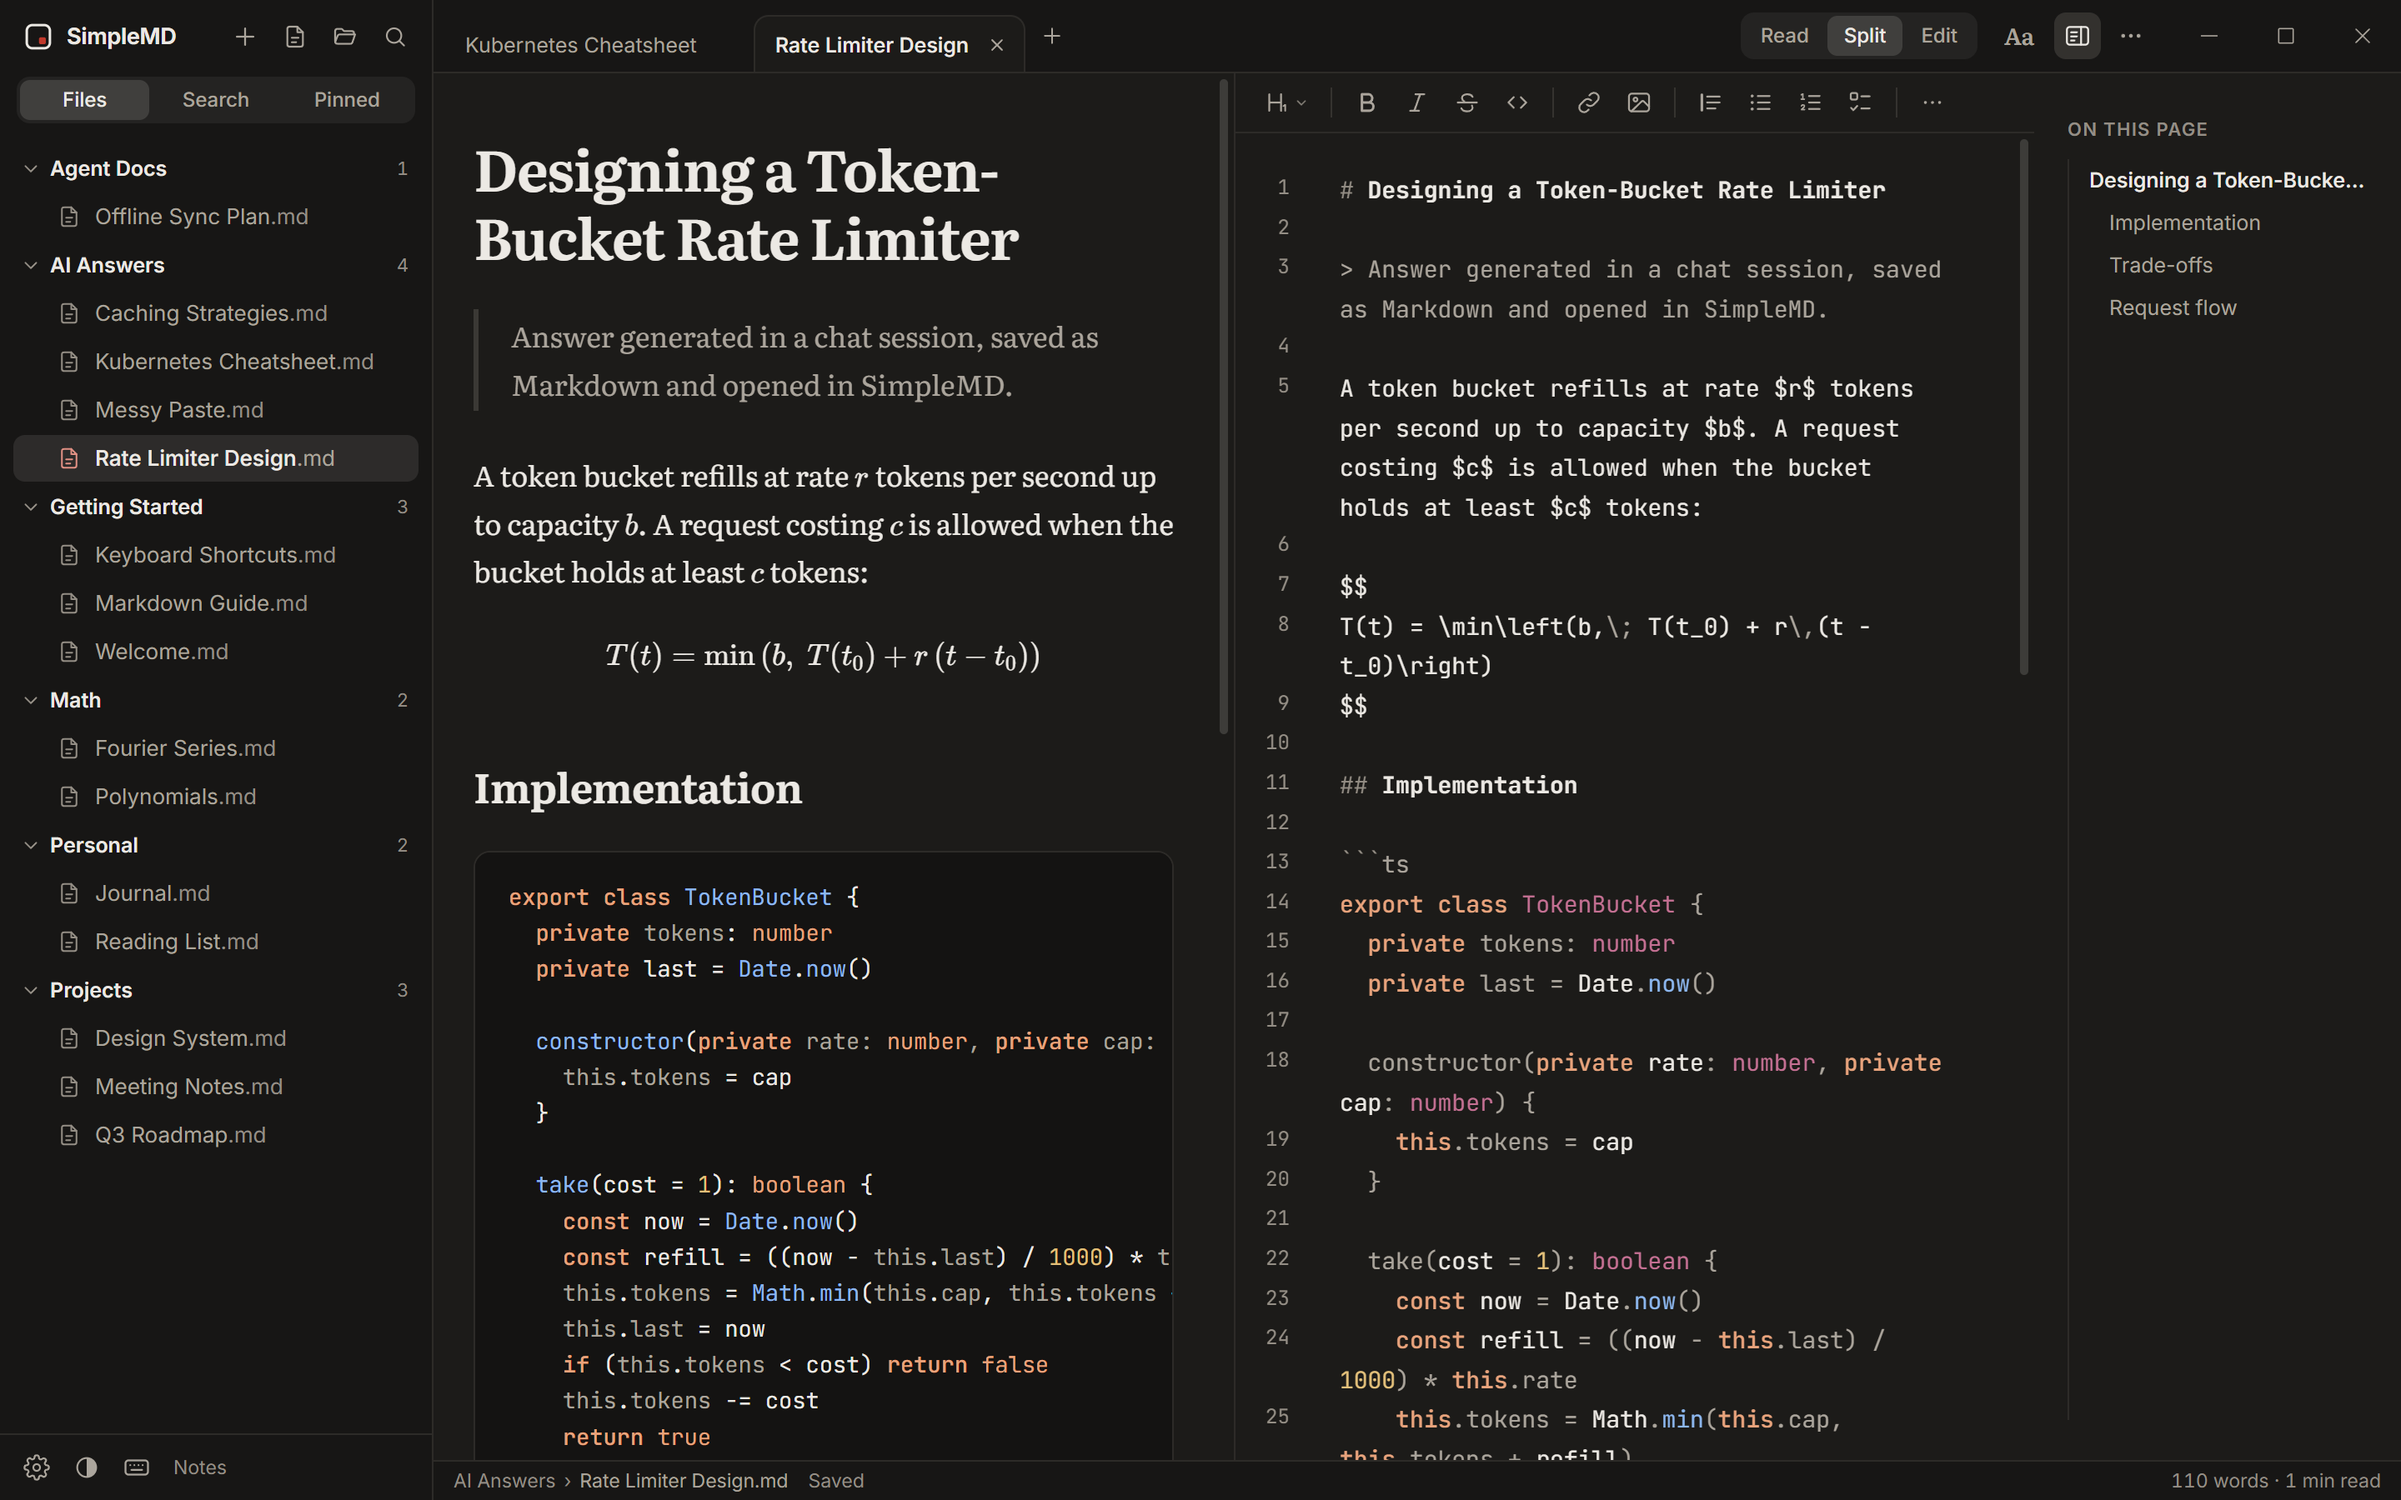
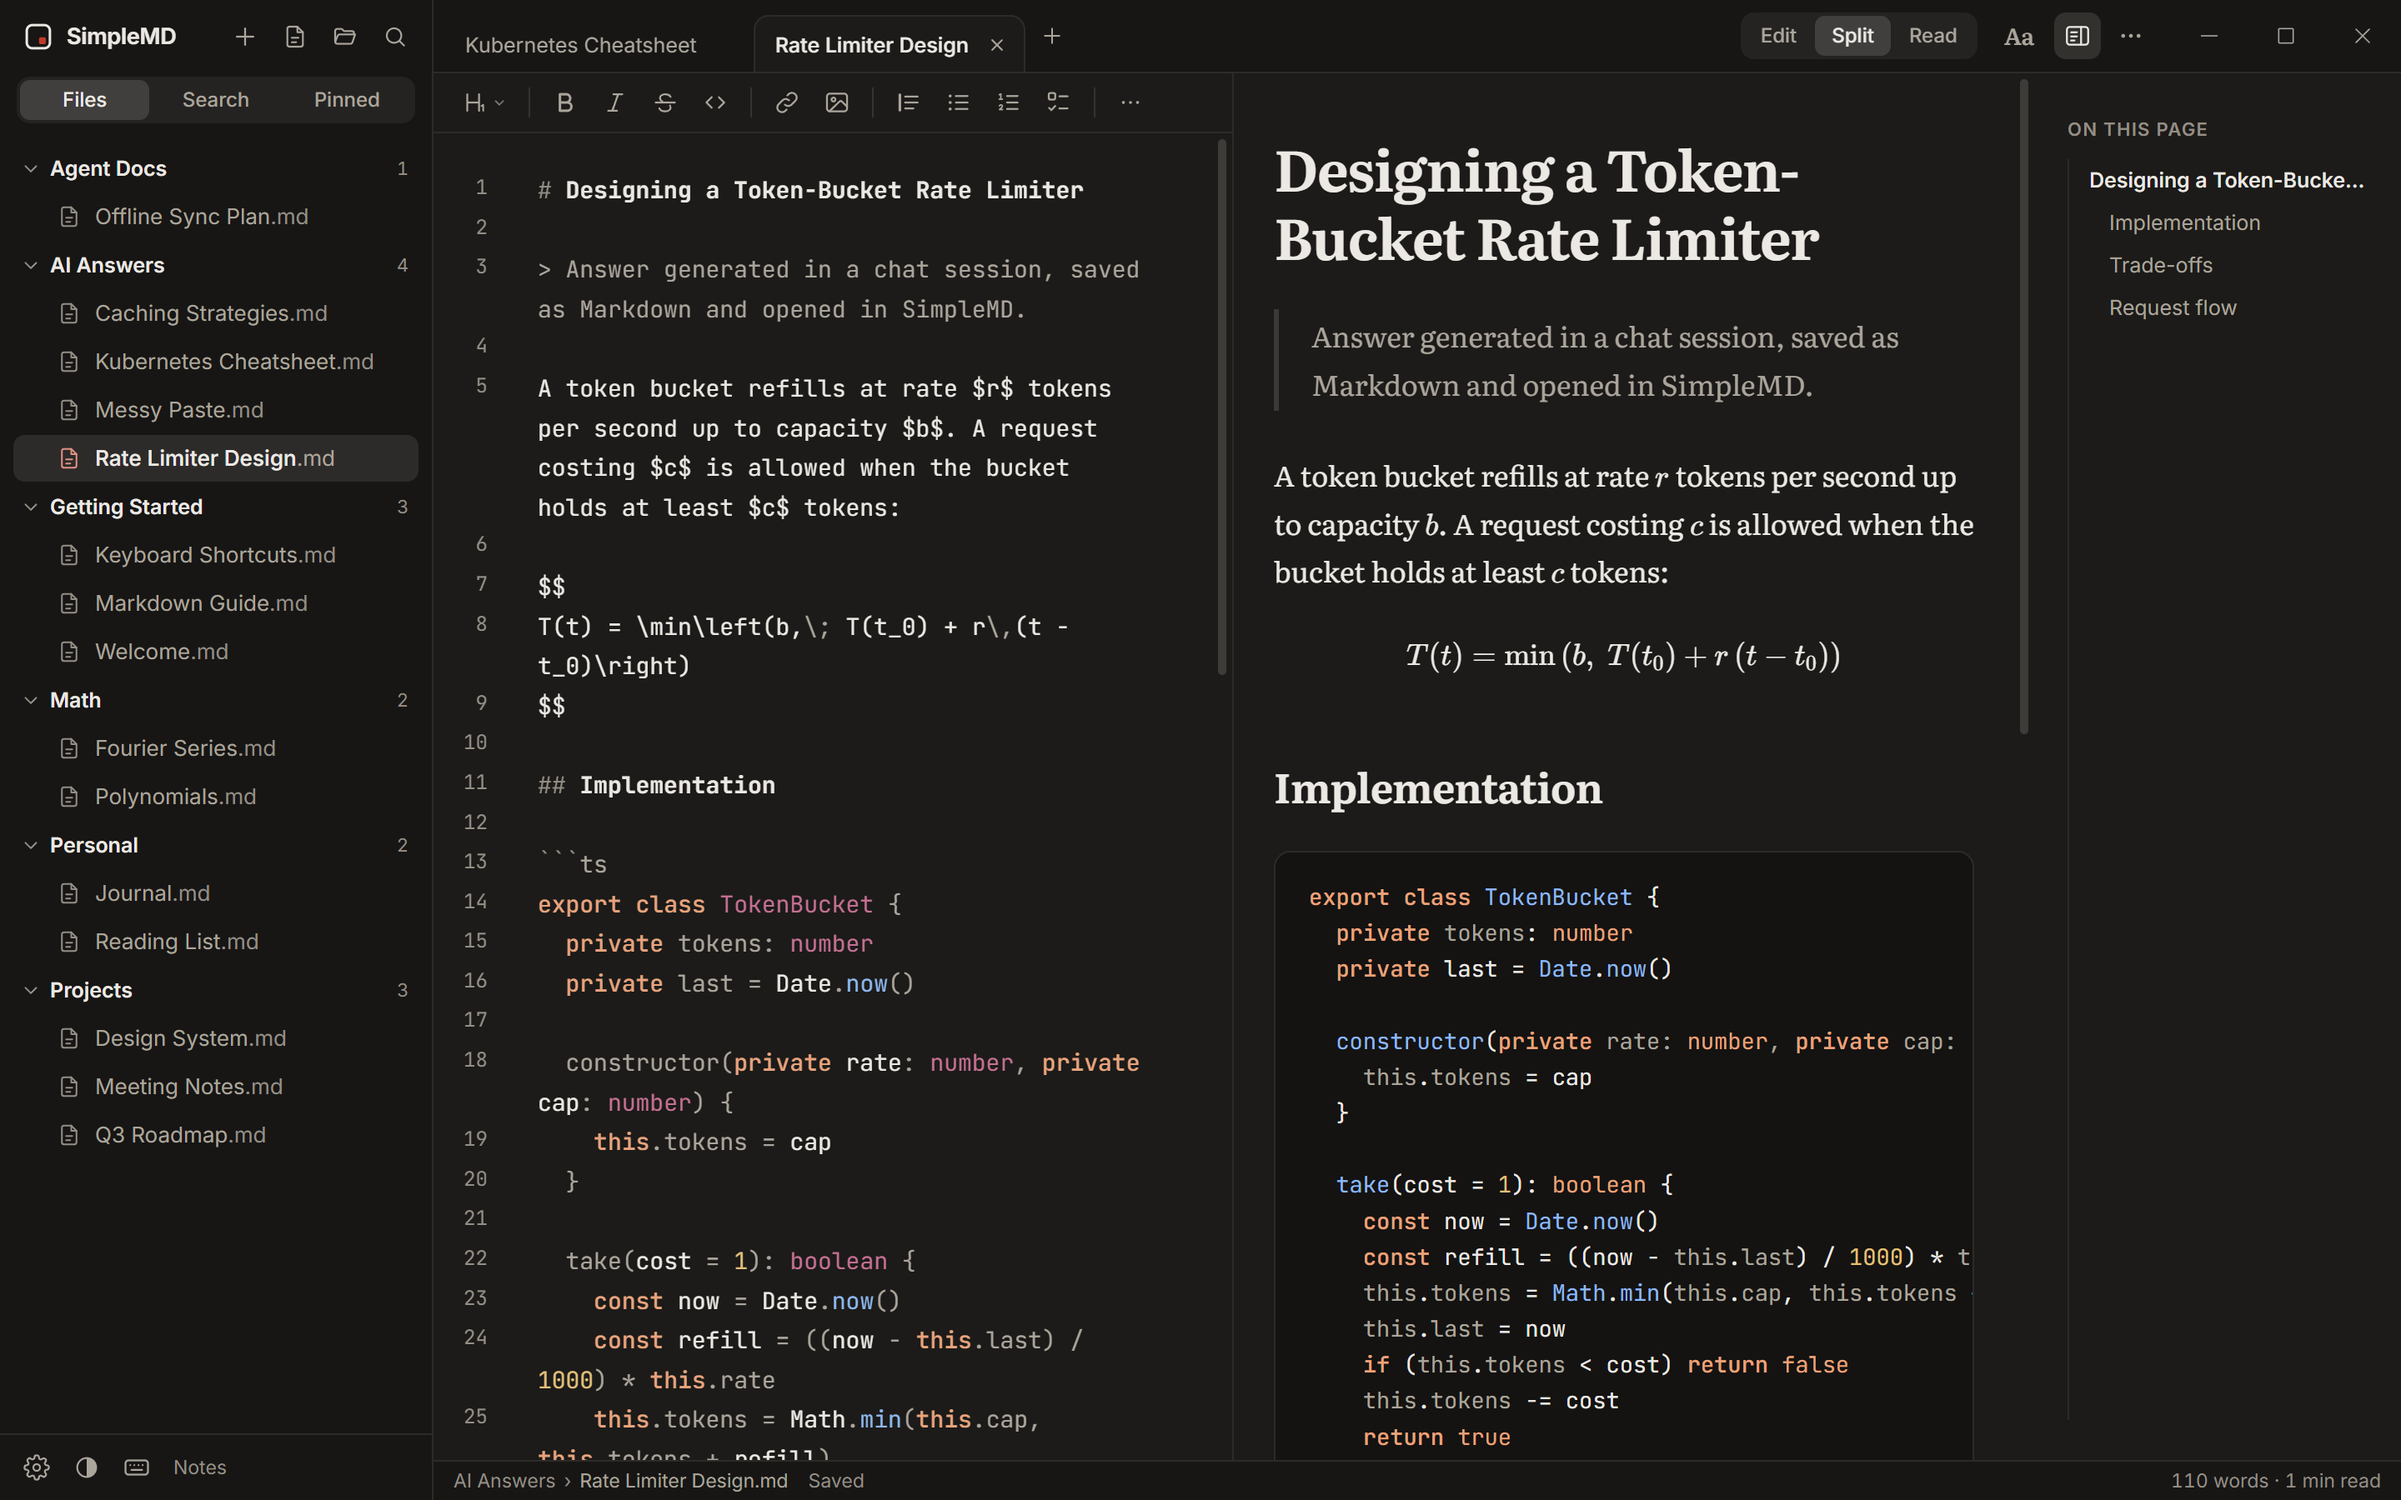
feat: editor left, preview right in Split view; switch reads Edit / Split / Read
The panes go back to source on the left and preview on the right, and the view switch
is reordered to match them. Shortcuts keep their numbers (Mod+1 Read, Mod+2 Split,
Mod+3 Edit). The website demo, screenshots, README and changelog follow.

diff --git a/site/index.html b/site/index.html
@@ -1554,7 +1554,7 @@
       display: flex;
       height: 100%;
       background: var(--code-bg);
-      border-left: 1px solid var(--border-hairline);
+      border-right: 1px solid var(--border-hairline);
       overflow: hidden;
       width: 50%;
       opacity: 1;
@@ -1602,9 +1602,7 @@
       outline-offset: -2px;
     }
 
-    /* Preview first, editor second: the same order as the app's Split view. */
     .demo-preview-pane {
-      order: -1;
       height: 100%;
       overflow-y: auto;
       padding: 32px 40px;
@@ -1642,7 +1640,7 @@
       width: 50%;
       opacity: 1;
       pointer-events: auto;
-      border-left: 1px solid var(--border-hairline);
+      border-right: 1px solid var(--border-hairline);
     }
     .demo-work-area.mode-split .demo-preview-pane {
       width: 50%;
@@ -2953,8 +2951,8 @@
       .demo-work-area.mode-split .demo-editor-pane {
         width: 100% !important;
         height: 260px;
-        border-left: none;
-        border-top: 1px solid var(--border-hairline);
+        border-right: none;
+        border-bottom: 1px solid var(--border-hairline);
       }
       .demo-work-area.mode-split .demo-preview-pane {
         width: 100% !important;
@@ -3589,6 +3587,10 @@ graph LR
           <!-- Segmented Control with aria-controls -->
           <div class="segmented-control" role="tablist" aria-label="Editor View Modes">
             <div class="segmented-indicator" id="segmented-indicator"></div>
+            <button class="segment-btn" id="btn-mode-edit" role="tab" aria-selected="false" aria-controls="demo-work-area" data-mode="edit">
+              <svg width="13" height="13" viewBox="0 0 24 24" fill="none" stroke="currentColor" stroke-width="2"><polyline points="16 18 22 12 16 6"/><polyline points="8 6 2 12 8 18"/></svg>
+              <span>Edit</span>
+            </button>
             <button class="segment-btn active" id="btn-mode-split" role="tab" aria-selected="true" aria-controls="demo-work-area" data-mode="split">
               <svg width="13" height="13" viewBox="0 0 24 24" fill="none" stroke="currentColor" stroke-width="2"><rect x="3" y="3" width="18" height="18" rx="2"/><line x1="12" y1="3" x2="12" y2="21"/></svg>
               <span>Split</span>
@@ -3596,10 +3598,6 @@ graph LR
             <button class="segment-btn" id="btn-mode-read" role="tab" aria-selected="false" aria-controls="demo-work-area" data-mode="read">
               <svg width="13" height="13" viewBox="0 0 24 24" fill="none" stroke="currentColor" stroke-width="2"><path d="M2 3h6a4 4 0 0 1 4 4v14a3 3 0 0 0-3-3H2z"/><path d="M22 3h-6a4 4 0 0 0-4 4v14a3 3 0 0 1 3-3h7z"/></svg>
               <span>Read</span>
-            </button>
-            <button class="segment-btn" id="btn-mode-edit" role="tab" aria-selected="false" aria-controls="demo-work-area" data-mode="edit">
-              <svg width="13" height="13" viewBox="0 0 24 24" fill="none" stroke="currentColor" stroke-width="2"><polyline points="16 18 22 12 16 6"/><polyline points="8 6 2 12 8 18"/></svg>
-              <span>Edit</span>
             </button>
           </div>
         </div>
@@ -3620,7 +3618,7 @@ graph LR
           <!-- Work Area with role="tabpanel" and height locked to 520px -->
           <div class="demo-work-area mode-split" id="demo-work-area" role="tabpanel" aria-labelledby="btn-mode-split">
             
-            <!-- Code Editor + Line Numbers (shown right of the preview) -->
+            <!-- Left Pane: Code Editor + Line Numbers -->
             <div class="demo-editor-pane" id="demo-editor-pane">
               <div class="line-numbers-gutter" id="line-numbers-gutter" aria-hidden="true">1<br>2<br>3<br>4<br>5<br>6<br>7<br>8<br>9<br>10<br>11<br>12<br>13<br>14<br>15<br>16</div>
               <textarea 
@@ -3631,7 +3629,7 @@ graph LR
                 placeholder="Type Markdown with $math$ and ```mermaid diagrams..."></textarea>
             </div>
 
-            <!-- Live Rendered Output (shown first, on the left) -->
+            <!-- Right Pane: Live Rendered Output -->
             <div class="demo-preview-pane" id="demo-preview-pane">
               <div class="demo-preview-content" id="demo-preview-content">
                 <!-- Injected via Vanilla JS Engine -->
@@ -3696,7 +3694,7 @@ graph LR
             <li>
               <button type="button" class="tour-step" role="tab" id="tour-tab-split" aria-controls="tour-stage" aria-selected="false" tabindex="-1" data-shot="split">
                 <span class="tour-step-title">Split view</span>
-                <span class="tour-step-body"><span>Fix what the AI got wrong on the right and watch the preview beside it follow as you type. Ctrl+S saves.</span></span>
+                <span class="tour-step-body"><span>Fix what the AI got wrong on the left and watch the preview follow as you type. Ctrl+S saves.</span></span>
                 <span class="tour-step-track" aria-hidden="true"><span class="tour-step-fill"></span></span>
               </button>
             </li>
@@ -3724,7 +3722,7 @@ graph LR
               <img class="tour-shot" data-shot="diagrams" data-src="screenshots/diagrams-dark.png" width="2880" height="1800" decoding="async"
                    alt="A comparison table with inline math above a rendered Mermaid flowchart and a task list.">
               <img class="tour-shot" data-shot="split" data-src="screenshots/split-dark.png" width="2880" height="1800" decoding="async"
-                   alt="Split view: the rendered preview on the left, the Markdown source in the editor on the right.">
+                   alt="Split view: Markdown source in the editor on the left, the rendered preview on the right.">
               <img class="tour-shot" data-shot="search" data-src="screenshots/search-dark.png" width="2880" height="1800" decoding="async"
                    alt="Workspace search for the word token, listing every match by file and line.">
               <img class="tour-shot" data-shot="reading" data-src="screenshots/reading-dark.png" width="2880" height="1800" decoding="async"

diff --git a/tests/e2e/app.spec.ts b/tests/e2e/app.spec.ts
@@ -303,7 +303,7 @@ test('split view: both panes move in the same frame under the mouse wheel, eithe
   expect(fromEditor.stalled).toBe(0)
 })
 
-test('split view shows the reader on the left and the editor on the right, like the switch', async () => {
+test('split view shows the editor on the left and the reader on the right, like the switch', async () => {
   run = await launch({ notes: await makeNotes(NOTES) })
   await openFile('Answer.md')
   await run.page.keyboard.press('Control+2')
@@ -311,9 +311,10 @@ test('split view shows the reader on the left and the editor on the right, like 
 
   const reader = (await run.page.locator('.smd-reader-pane').boundingBox())!
   const editor = (await run.page.locator('.smd-editor-pane').boundingBox())!
-  expect(reader.x).toBeLessThan(editor.x)
+  expect(editor.x).toBeLessThan(reader.x)
   const switchX = async (name: string) => (await run.page.getByRole('radio', { name, exact: true }).boundingBox())!.x
-  expect(await switchX('Read')).toBeLessThan(await switchX('Edit'))
+  expect(await switchX('Edit')).toBeLessThan(await switchX('Split'))
+  expect(await switchX('Split')).toBeLessThan(await switchX('Read'))
 })
 
 test('the sidebar opens a file and a folder with buttons', async () => {

diff --git a/src/renderer/src/app/DocumentView.tsx b/src/renderer/src/app/DocumentView.tsx
@@ -152,9 +152,9 @@ export default function DocumentView(p: DocumentViewProps) {
       <div className="smd-docarea">
         {p.conflict && <ConflictBar onReload={p.onReloadConflict} onKeep={p.onKeepMine} />}
         <div className={'smd-panes' + (p.viewMode === 'split' ? ' smd-panes--split' : '')}>
-          {/* Reader left, editor right: the same order as the Read · Split · Edit switch. */}
-          {p.viewMode !== 'edit' ? <ReaderPane {...p} /> : null}
+          {/* Editor left, reader right: the same order as the Edit · Split · Read switch. */}
           {p.viewMode !== 'read' ? <EditorPane {...p} /> : null}
+          {p.viewMode !== 'edit' ? <ReaderPane {...p} /> : null}
         </div>
       </div>
       {p.outline}

diff --git a/src/renderer/src/styles/app.css b/src/renderer/src/styles/app.css
@@ -13,7 +13,7 @@
 .smd-docarea { flex: 1; display: flex; flex-direction: column; min-width: 0; min-height: 0; }
 .smd-panes { flex: 1; display: flex; min-width: 0; min-height: 0; }
 .smd-editor-pane { flex: none; width: 100%; height: 100%; min-width: 0; display: flex; flex-direction: column; background: var(--bg); }
-.smd-panes--split .smd-editor-pane { width: 50%; border-left: 1px solid var(--border); }
+.smd-panes--split .smd-editor-pane { width: 50%; border-right: 1px solid var(--border); }
 .smd-editor-pane > .smd-editor-host { flex: 1; min-height: 0; }
 /* The reader scroller lives in a positioned pane so the find bar can float over it; the
    change bar sits above it in the flow. */

diff --git a/src/renderer/src/components/TopBar.tsx b/src/renderer/src/components/TopBar.tsx
@@ -36,10 +36,12 @@ export interface TopBarProps {
   onDocMenu: (anchor: HTMLElement, keyboard: boolean) => void
 }
 
+// Left to right as Split view lays them out: the source, both, the rendered page. The
+// shortcuts keep their numbers (Mod+1 is still Read).
 const MODES: { mode: ViewMode; label: string; shortcut: string }[] = [
-  { mode: 'read', label: 'Read', shortcut: 'Mod+1' },
+  { mode: 'edit', label: 'Edit', shortcut: 'Mod+3' },
   { mode: 'split', label: 'Split', shortcut: 'Mod+2' },
-  { mode: 'edit', label: 'Edit', shortcut: 'Mod+3' }
+  { mode: 'read', label: 'Read', shortcut: 'Mod+1' }
 ]
 
 export default function TopBar(p: TopBarProps) {

diff --git a/README.md b/README.md
@@ -50,8 +50,8 @@ SimpleMD renders all of it the way it was meant to look, in a fast desktop app t
       <b>Diagrams and tables.</b> Mermaid flowcharts, sequence diagrams, tables with inline math and task lists, all rendered inline.
     </td>
     <td width="50%" valign="top">
-      <img src="site/screenshots/split-dark.png" alt="Split view with the rendered preview on the left and the Markdown source on the right"><br>
-      <b>Split view.</b> The preview on the left, the source on the right, scrolling together. Edit and watch it follow as you type. Ctrl+S saves.
+      <img src="site/screenshots/split-dark.png" alt="Split view with the Markdown source on the left and the rendered preview on the right"><br>
+      <b>Split view.</b> The source on the left, the preview on the right, scrolling together. Edit and watch it follow as you type. Ctrl+S saves.
     </td>
   </tr>
   <tr>

diff --git a/CHANGELOG.md b/CHANGELOG.md
@@ -2,6 +2,7 @@
 
 ## Unreleased
 
+- Split view puts the editor back on the left and the preview on the right, and the view switch now reads Edit · Split · Read to match. The shortcuts keep their numbers: Ctrl+1 Read, Ctrl+2 Split, Ctrl+3 Edit.
 - Optional update checks. SimpleMD asks once whether to check for new versions; nothing goes online unless you say yes. When on, it asks GitHub for the latest version number about once a day. A new version shows a notice in the corner and a dot on the Settings gear, and Download opens the release page (nothing installs on its own). "Check for updates" is also in the command palette and Settings → About.
 
 ## 1.1.1
